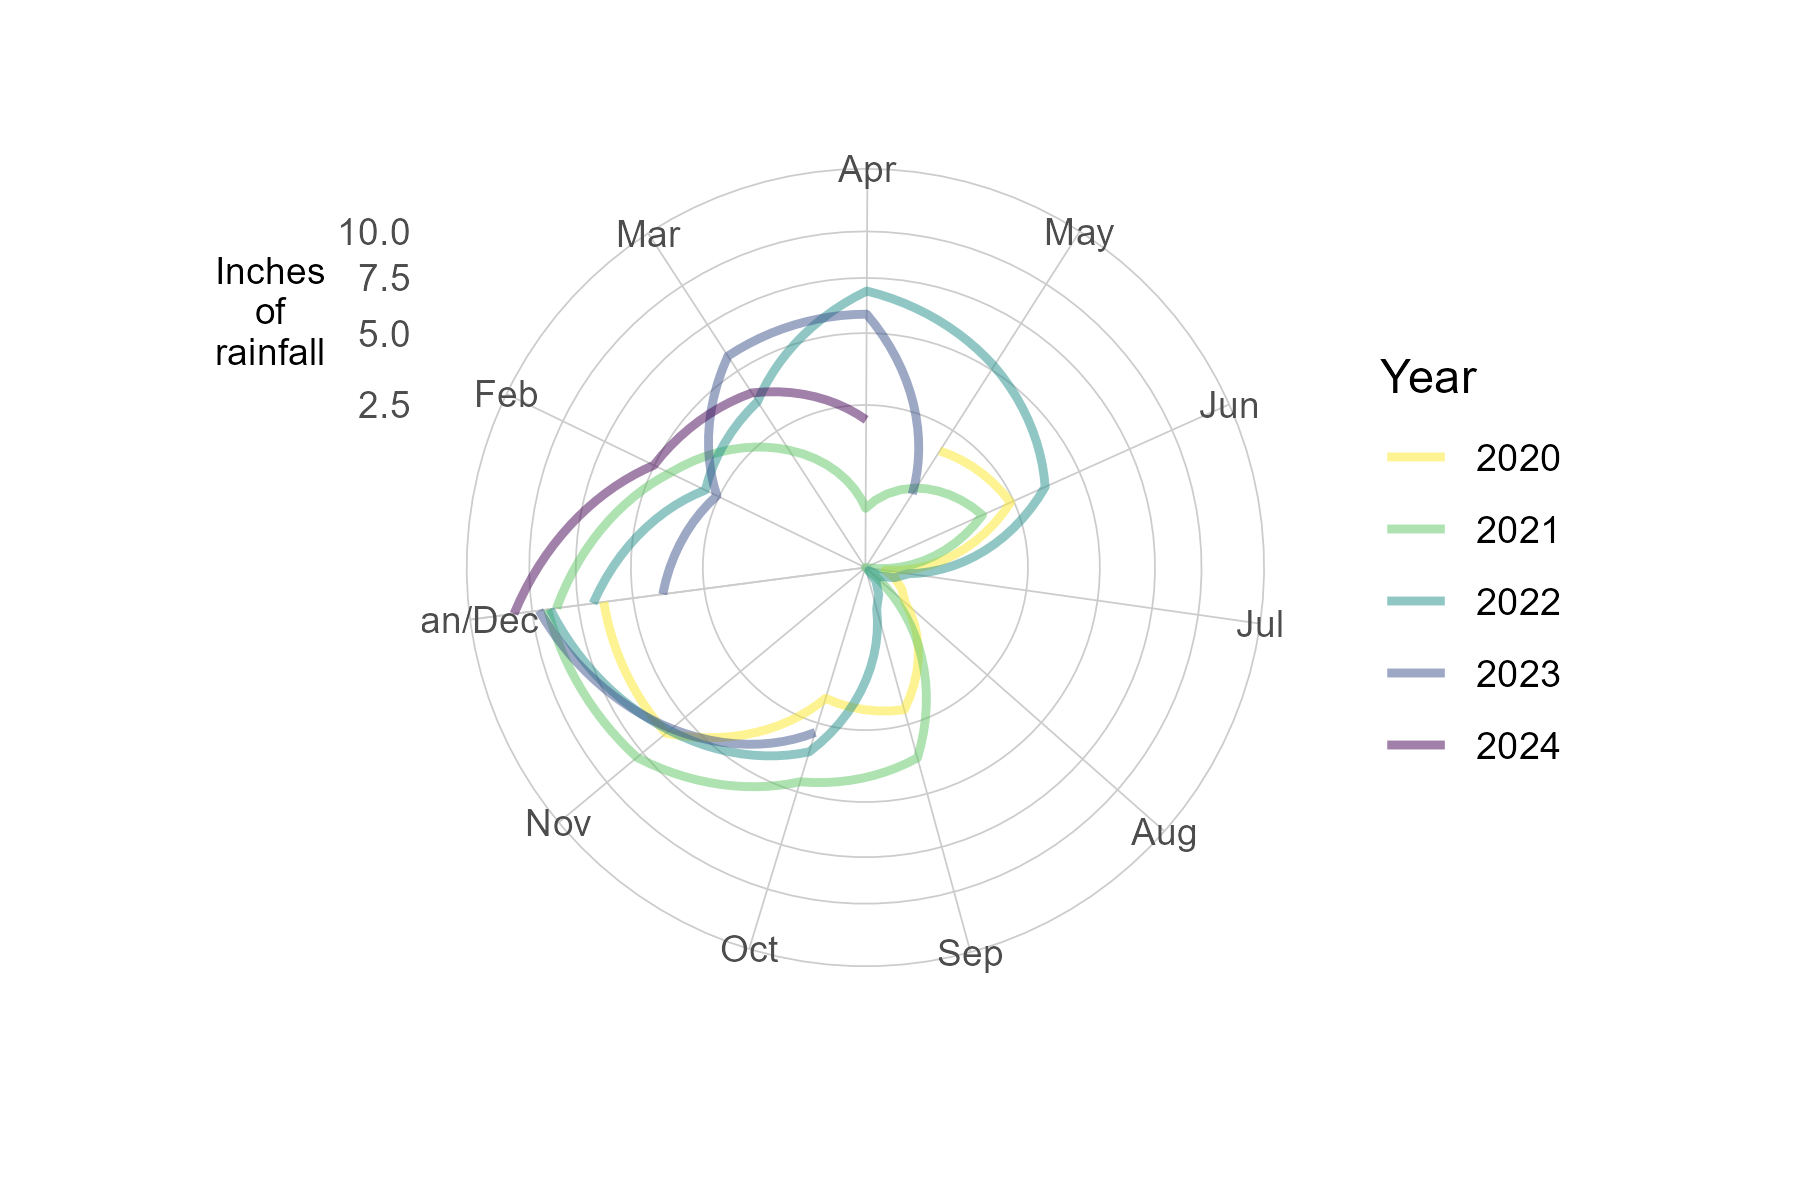
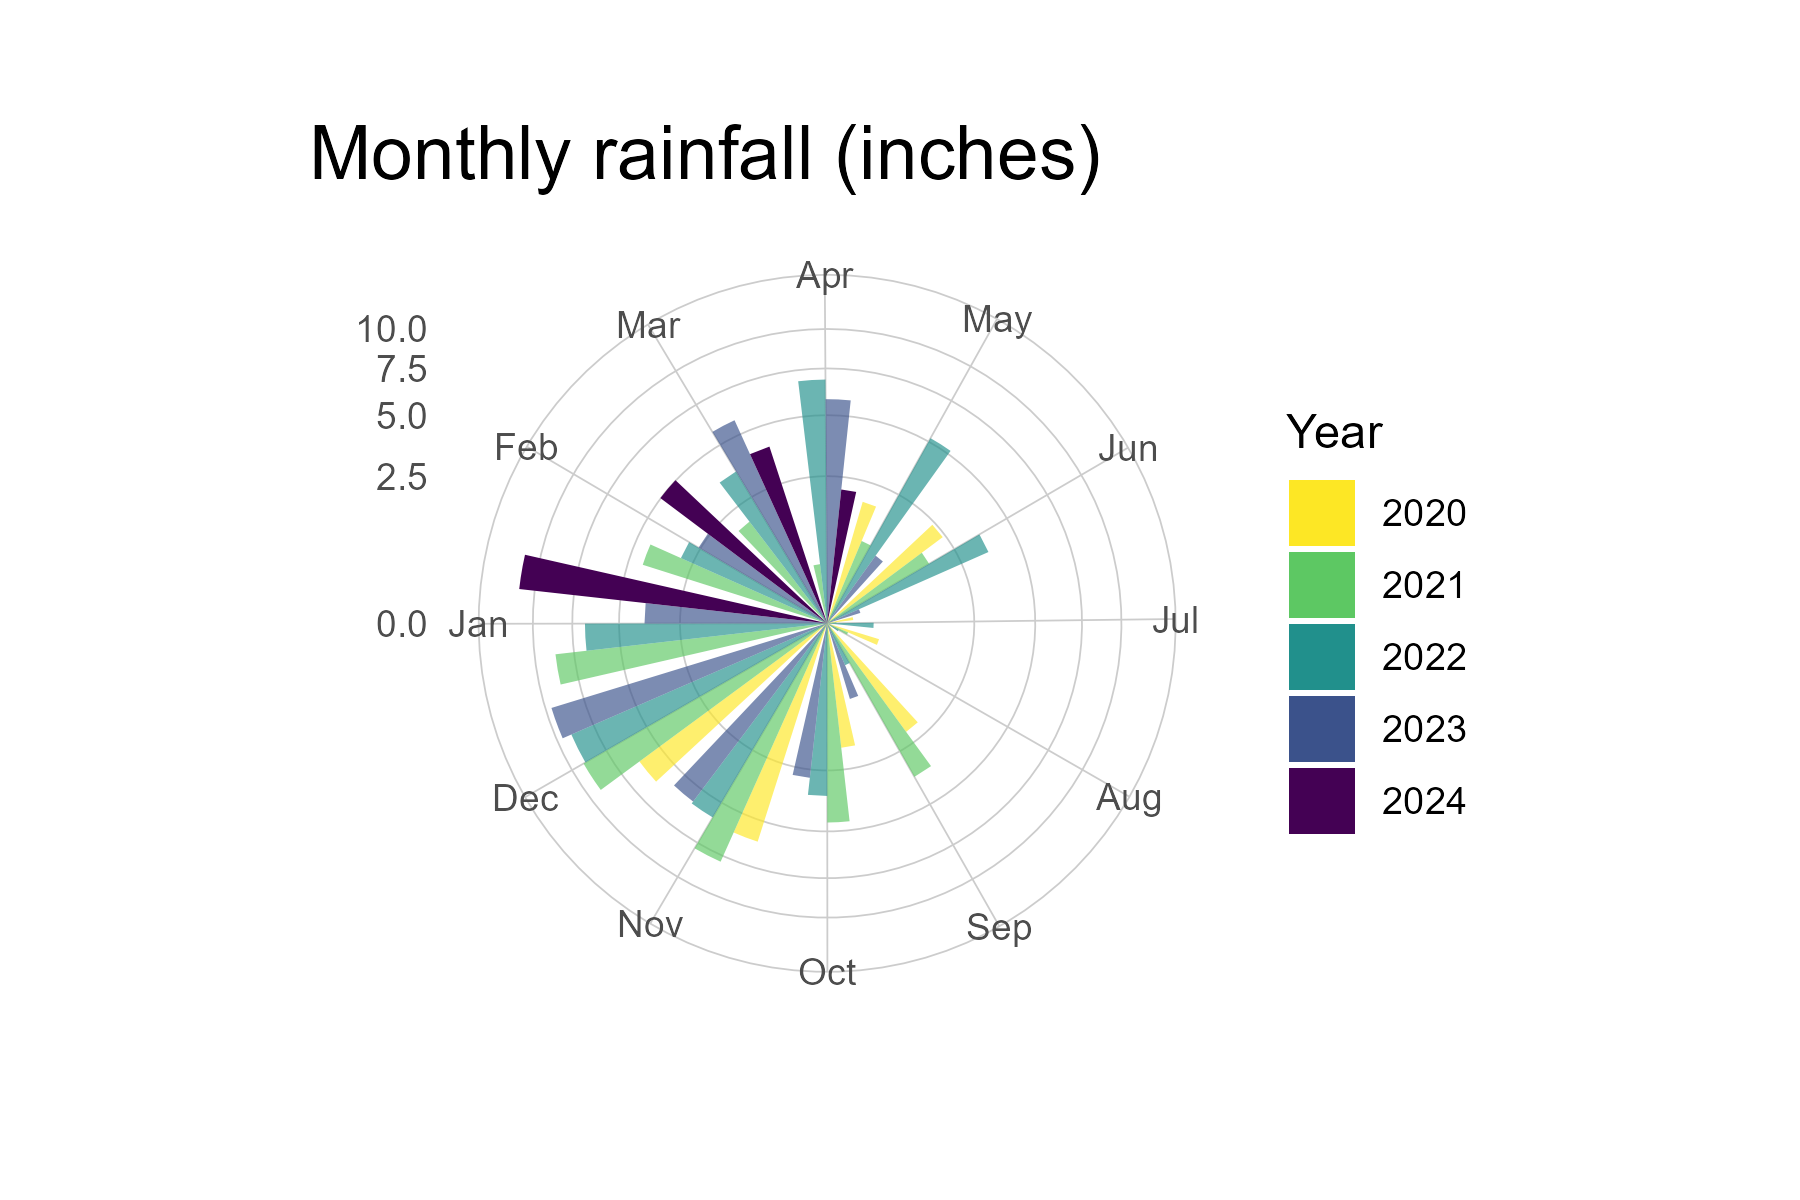
Fiddle with polar plot

diff --git a/README.md b/README.md
@@ -15,13 +15,13 @@ library(tidyverse)
 ```
 
 ```
-## ── Attaching core tidyverse packages ──────────────────────── tidyverse 2.0.0 ──
+## ── Attaching core tidyverse packages ──────────────────────────────────────────────────────────────────────────────────────────────────────────────────────────────────────────────────────── tidyverse 2.0.0 ──
 ## ✔ dplyr     1.1.4     ✔ readr     2.1.5
 ## ✔ forcats   1.0.0     ✔ stringr   1.5.1
 ## ✔ ggplot2   3.5.1     ✔ tibble    3.2.1
 ## ✔ lubridate 1.9.3     ✔ tidyr     1.3.1
 ## ✔ purrr     1.0.2     
-## ── Conflicts ────────────────────────────────────────── tidyverse_conflicts() ──
+## ── Conflicts ────────────────────────────────────────────────────────────────────────────────────────────────────────────────────────────────────────────────────────────────────────── tidyverse_conflicts() ──
 ## ✖ tidyr::extract()   masks magrittr::extract()
 ## ✖ dplyr::filter()    masks stats::filter()
 ## ✖ dplyr::lag()       masks stats::lag()
@@ -64,7 +64,11 @@ total <- sapply(L, function(x) x[2]) %>% as.numeric()
 ```
 
 ```r
-hourly <- sapply(L, function(x) x[3:26], simplify = FALSE) %>% do.call(rbind, .) %>% data.frame() %>% mutate_if(is.character, as.numeric)
+hourly <-
+  sapply(L, function(x) x[3:26], simplify = FALSE) %>%
+  do.call(rbind, .) %>%
+  data.frame() %>%
+  mutate_if(is.character, as.numeric)
 ```
 
 ```
@@ -94,12 +98,14 @@ head(df) %>% knitr::kable()
 
 |date       | hour|datetime            | inches|
 |:----------|----:|:-------------------|------:|
-|2024-05-08 |    0|2024-05-08 00:00:00 |      0|
-|2024-05-08 |    1|2024-05-08 01:00:00 |      0|
-|2024-05-08 |    2|2024-05-08 02:00:00 |      0|
-|2024-05-08 |    3|2024-05-08 03:00:00 |      0|
-|2024-05-08 |    4|2024-05-08 04:00:00 |      0|
-|2024-05-08 |    5|2024-05-08 05:00:00 |      0|
+|2024-05-09 |    0|2024-05-09 00:00:00 |      0|
+|2024-05-09 |    1|2024-05-09 01:00:00 |      0|
+|2024-05-09 |    2|2024-05-09 02:00:00 |      0|
+|2024-05-09 |    3|2024-05-09 03:00:00 |      0|
+|2024-05-09 |    4|2024-05-09 04:00:00 |      0|
+|2024-05-09 |    5|2024-05-09 05:00:00 |      0|
+
+## Monthly comparison
 
 Plot the most recent $k$ years.
 Assume current month is incomplete and exclude.
@@ -107,34 +113,37 @@ Assume current month is incomplete and exclude.
 
 ```r
 k <- 4
-maxYear <- year(max(date))
-minYear <- maxYear - k
+currentYear <- year(max(date))
+minYear <- currentYear - k
 previousMonth <- month(today() %>% floor_date(unit = "month") - 1)
-fudge <- -1 + (previousMonth - 1) / 12
+spin <- -((previousMonth - 1/2) / 12) * (2 * pi)
 G <-
   df %>%
   filter(max(date) - k * 365.25 <= date) %>%
   filter(!(year(date) == year(today()) & month(date) == month(today()))) %>%
   mutate(year = year(date) %>% factor(),
-         monthday = sprintf("%d-%d-%d", maxYear, month(date), day(date)) %>% as.Date()) %>%
+         isCurrentYear = (year(date) == currentYear),
+         monthday = sprintf("%d-%d-%d", currentYear, month(date), day(date)) %>% as.Date()) %>%
   mutate(unit = floor_date(monthday, unit = "month")) %>%
-  group_by(year, unit) %>%
-  summarize(inches = sum(inches)) %>%
+  group_by(year, isCurrentYear, unit) %>%
+  summarize(inches = sum(inches, na.rm = TRUE)) %>%
   ungroup() %>%
   ggplot(aes(x = unit, y = inches)) +
-    geom_line(aes(color = year), alpha = 1/2, linewidth = 1) +
-    scale_color_viridis_d("Year", direction = -1) +
-    scale_x_date("", date_breaks = "month", date_labels = "%b") +
-    scale_y_continuous("Inches\nof\nrainfall", transform = "sqrt") +
-    coord_polar(start = -((previousMonth + fudge) / 12) * (2 * pi)) +
+    labs(title = "Monthly rainfall (inches)") +
+    geom_col(aes(fill = year, alpha = isCurrentYear), position = "dodge", show.legend = c(fill = TRUE, alpha = FALSE)) +
+    scale_fill_viridis_d("Year", direction = -1) +
+    scale_x_date("", date_breaks = "month", date_labels = "%b", expand = expansion(add = 120 * pi / 180)) +
+    scale_y_continuous("", transform = "sqrt") +
+    scale_alpha_manual(values = c(2/3, 1)) +
+    coord_polar(start = spin) +
     theme_ipsum_ps() +
-    theme(axis.title.y = element_text(angle = 0, hjust = 0.5, vjust = 0.83),
-          panel.grid.minor.x = element_blank())
+    theme(panel.grid.minor.x = element_blank(),
+          plot.title.position = "plot")
 ```
 
 ```
-## `summarise()` has grouped output by 'year'. You can override using the
-## `.groups` argument.
+## `summarise()` has grouped output by 'year', 'isCurrentYear'. You can override
+## using the `.groups` argument.
 ```
 
 ```r
@@ -205,13 +214,13 @@ sessionInfo()
 ## [19] htmltools_0.5.8.1       Rttf2pt1_1.3.12         pillar_1.9.0           
 ## [22] later_1.3.2             crayon_1.5.2            extrafontdb_1.0        
 ## [25] gfonts_0.2.0            mime_0.12               fontBitstreamVera_0.1.1
-## [28] tidyselect_1.2.1        digest_0.6.35           stringi_1.8.4          
+## [28] tidyselect_1.2.1        digest_0.6.35           stringi_1.8.3          
 ## [31] labeling_0.4.3          extrafont_0.19          fastmap_1.1.1          
 ## [34] grid_4.4.0              colorspace_2.1-0        cli_3.6.2              
 ## [37] crul_1.4.2              utf8_1.2.4              withr_3.0.0            
 ## [40] gdtools_0.3.7           scales_1.3.0            promises_1.3.0         
 ## [43] bit64_4.0.5             timechange_0.3.0        bit_4.0.5              
-## [46] ragg_1.3.1              hms_1.1.3               shiny_1.8.1.1          
+## [46] ragg_1.3.0              hms_1.1.3               shiny_1.8.1.1          
 ## [49] evaluate_0.23           knitr_1.46              viridisLite_0.4.2      
 ## [52] rlang_1.1.3             Rcpp_1.0.12             xtable_1.8-4           
 ## [55] glue_1.7.0              httpcode_0.3.0          vroom_1.6.5            
